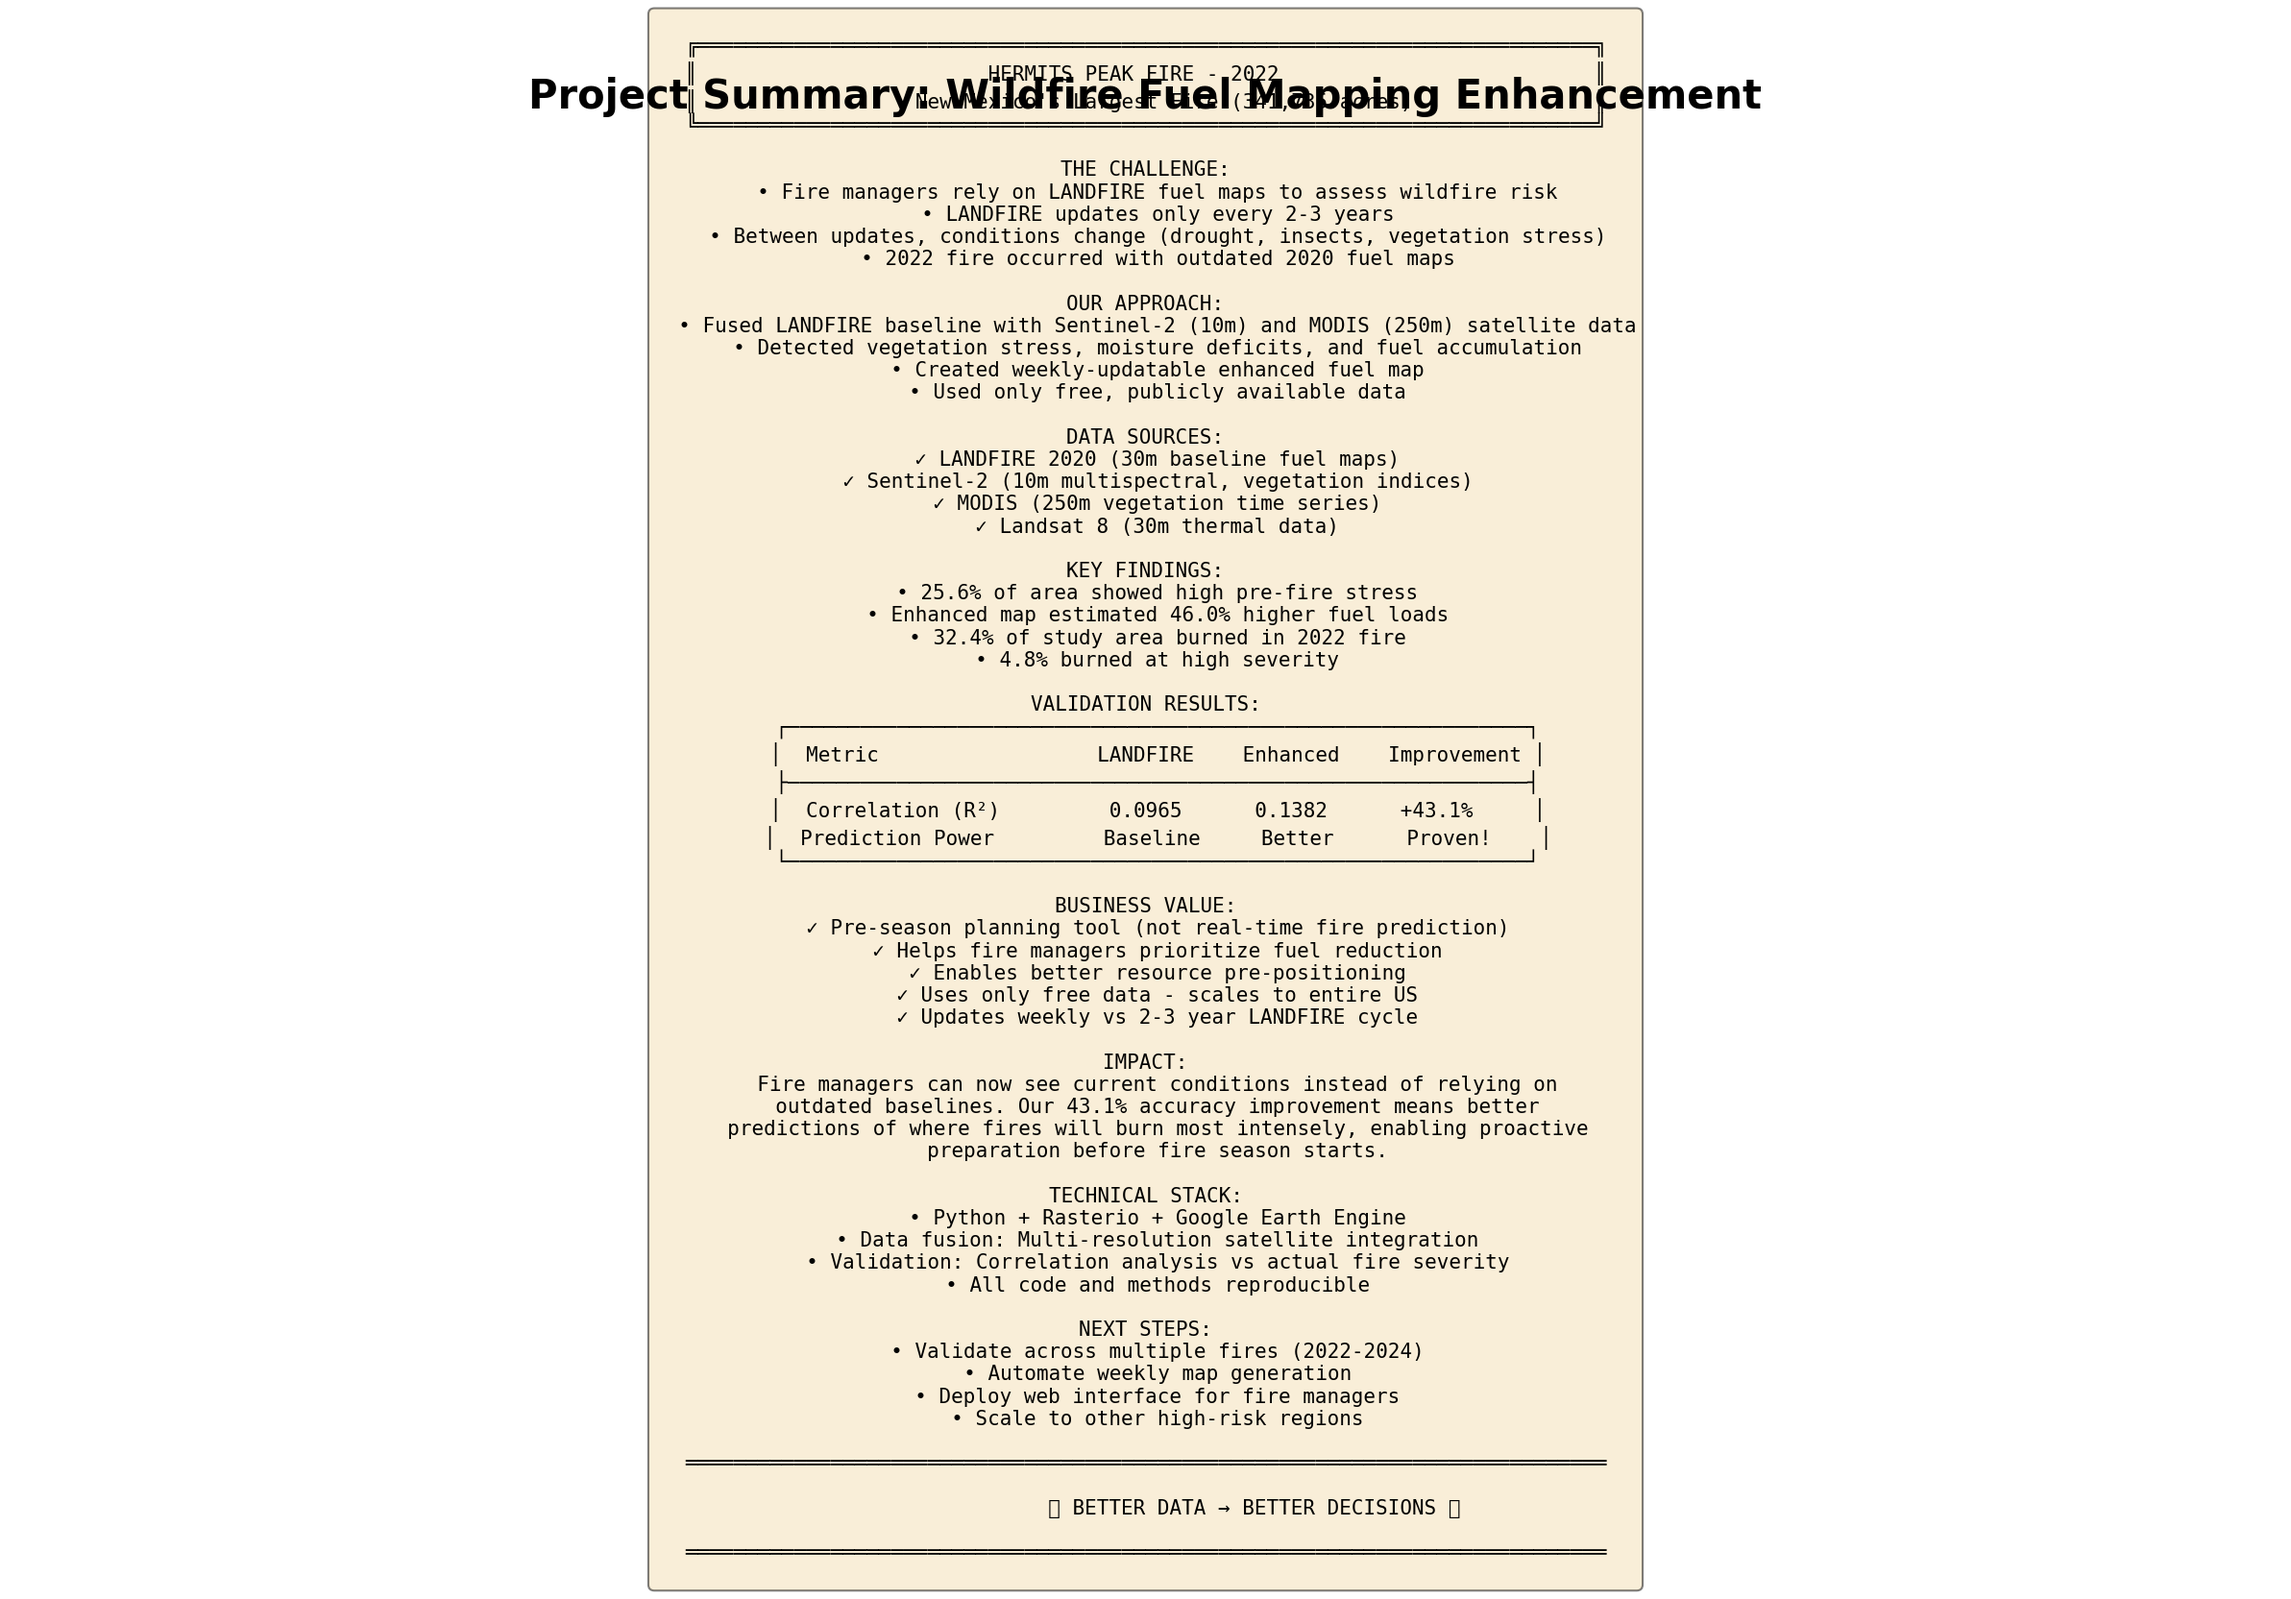
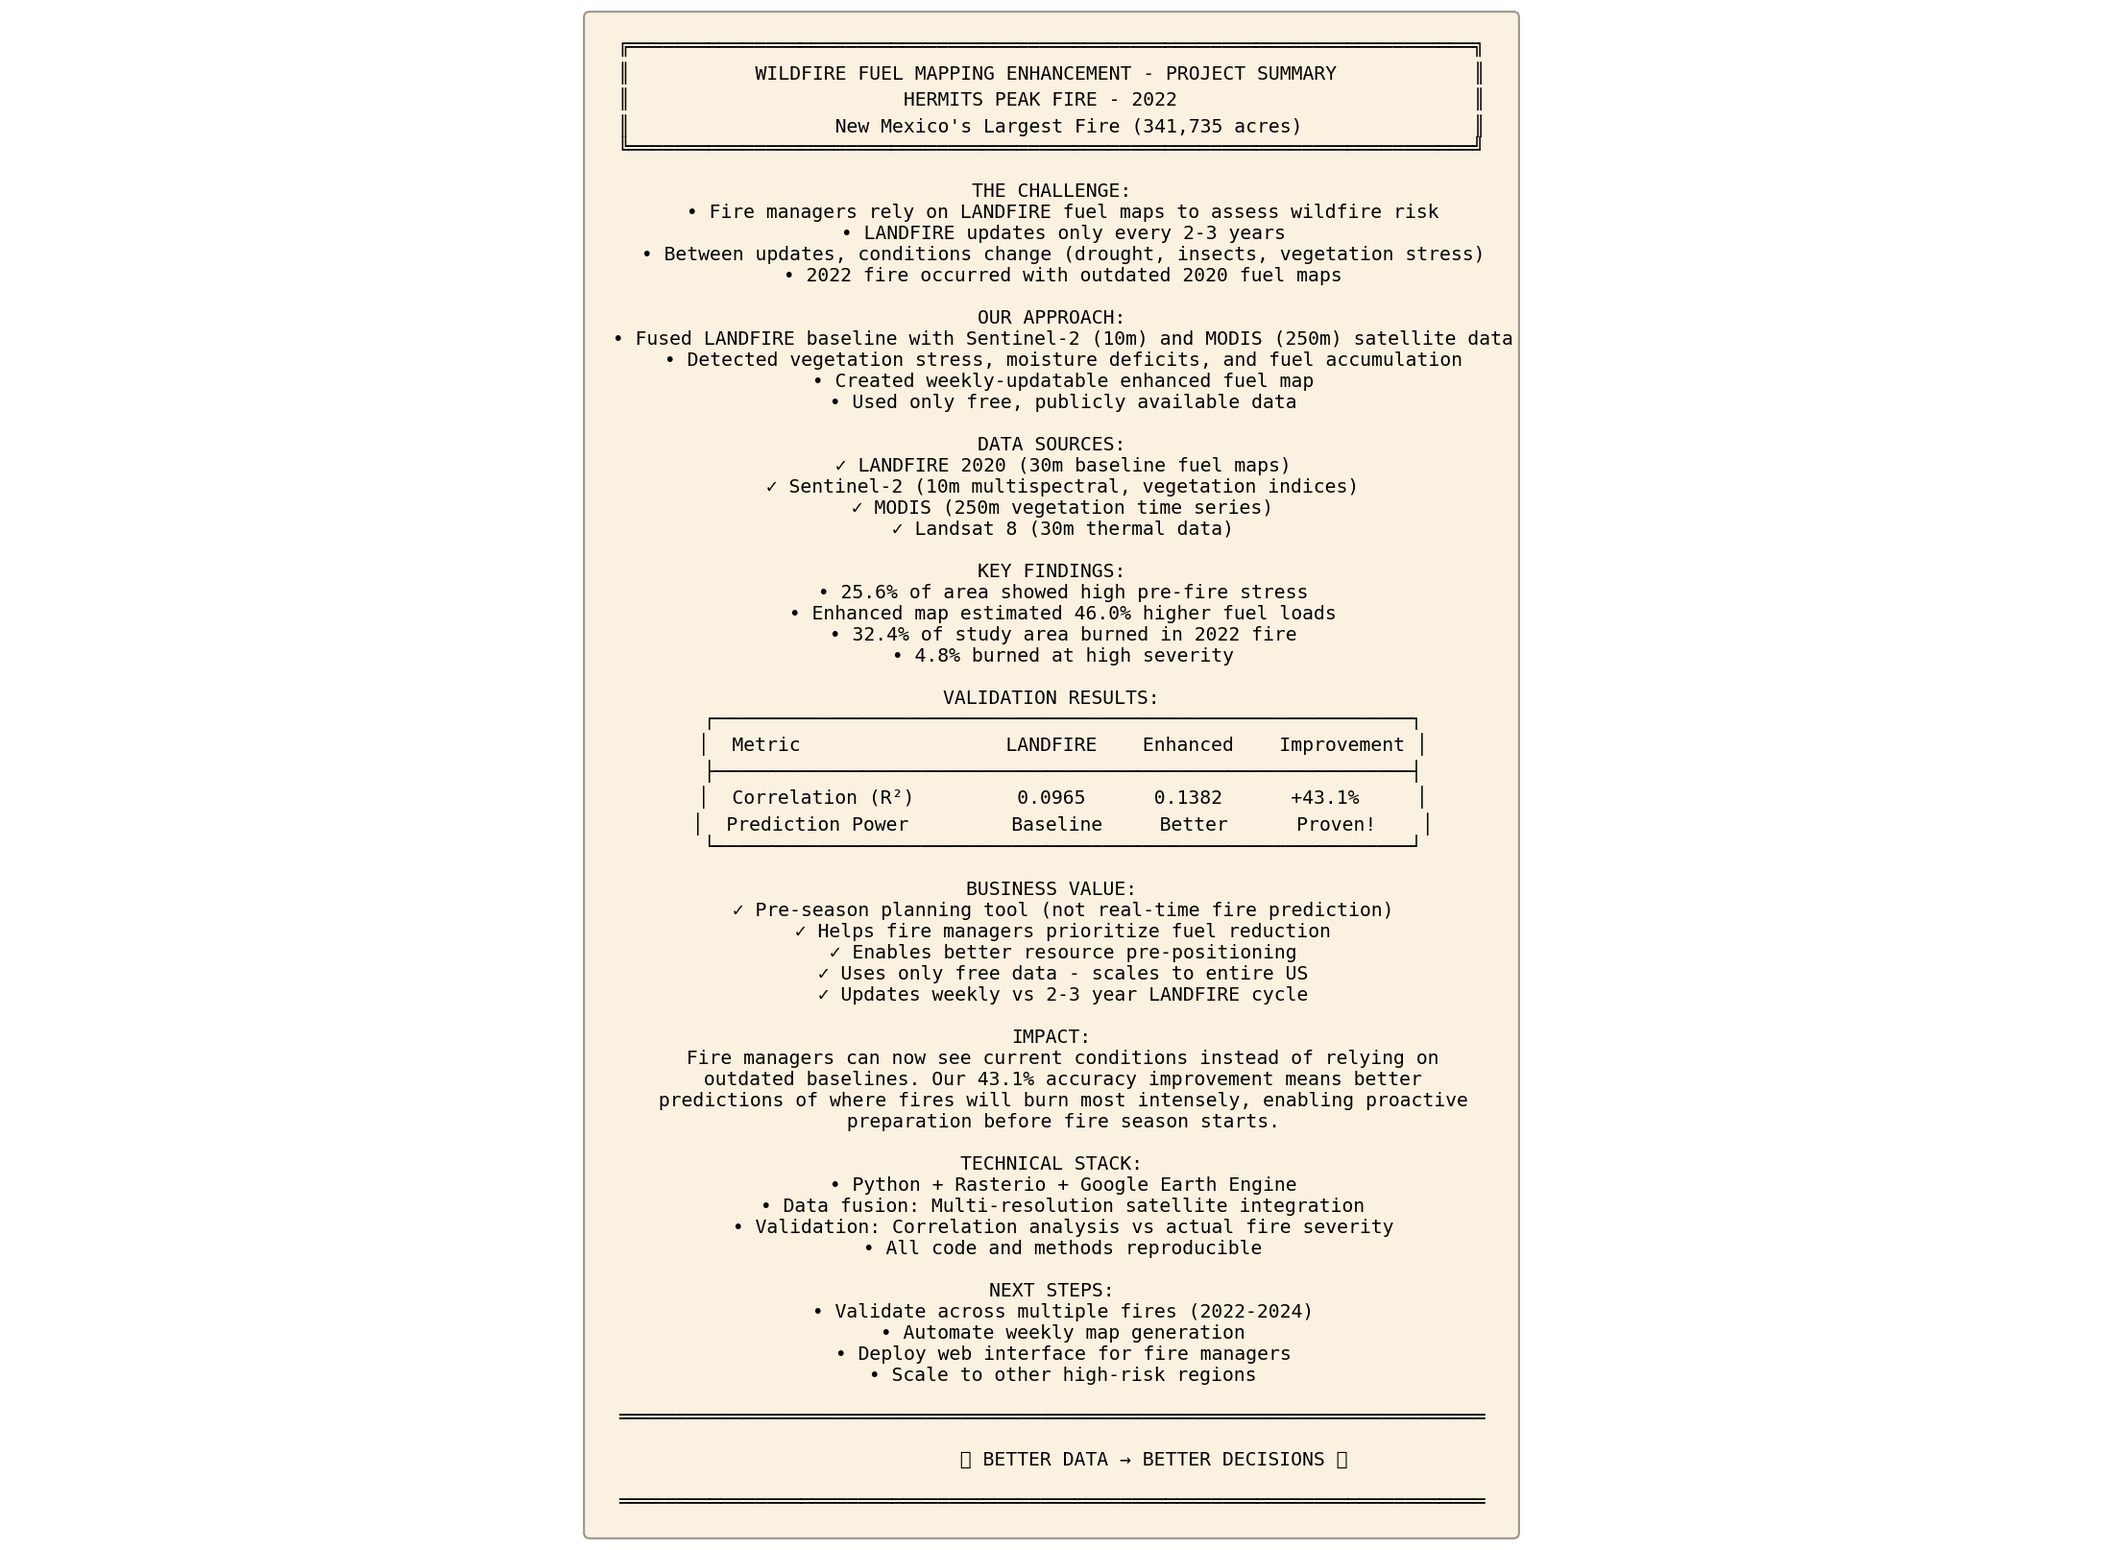
Fix overlapping text in summary visualization
- Removed redundant fig.suptitle that was overlapping with text box
- Integrated title directly into summary_text with proper header
- Adjusted figure size (16x11) and font size (9.5) for optimal fit
- Added explicit subplot margins to maximize usable space
- Result: Clean, professional summary slide without distracting overlays

🤖 Generated with [Claude Code](https://claude.com/claude-code)

Changed region(s): [[0.2174, 0.0, 0.7763, 1.0]]

diff --git a/analysis/05_visualization.py b/analysis/05_visualization.py
@@ -291,13 +291,12 @@ print("  ✓ Saved 04_validation.png")
 ##############################################################################
 print("\n7. Creating Image 5: Summary...")
 
-fig = plt.figure(figsize=(16, 10))
-fig.suptitle('Project Summary: Wildfire Fuel Mapping Enhancement',
-             fontsize=20, fontweight='bold')
+fig = plt.figure(figsize=(16, 11))
 
-# Create text summary
+# Create text summary (title is included in the text itself, no fig.suptitle needed)
 summary_text = f"""
 ╔══════════════════════════════════════════════════════════════════════════╗
+║           WILDFIRE FUEL MAPPING ENHANCEMENT - PROJECT SUMMARY            ║
 ║                        HERMITS PEAK FIRE - 2022                          ║
 ║                  New Mexico's Largest Fire (341,735 acres)               ║
 ╚══════════════════════════════════════════════════════════════════════════╝
@@ -369,10 +368,10 @@ NEXT STEPS:
 ax = fig.add_subplot(111)
 ax.axis('off')
 ax.text(0.5, 0.5, summary_text, transform=ax.transAxes,
-       fontsize=10, va='center', ha='center', family='monospace',
-       bbox=dict(boxstyle='round', facecolor='wheat', alpha=0.5))
+       fontsize=9.5, va='center', ha='center', family='monospace',
+       bbox=dict(boxstyle='round', facecolor='wheat', alpha=0.4))
 
-plt.tight_layout()
+plt.subplots_adjust(left=0.05, right=0.95, top=0.98, bottom=0.02)
 plt.savefig(PRESENTATION_DIR / "05_summary.png", dpi=150, bbox_inches='tight')
 print("  ✓ Saved 05_summary.png")
 plt.close()
